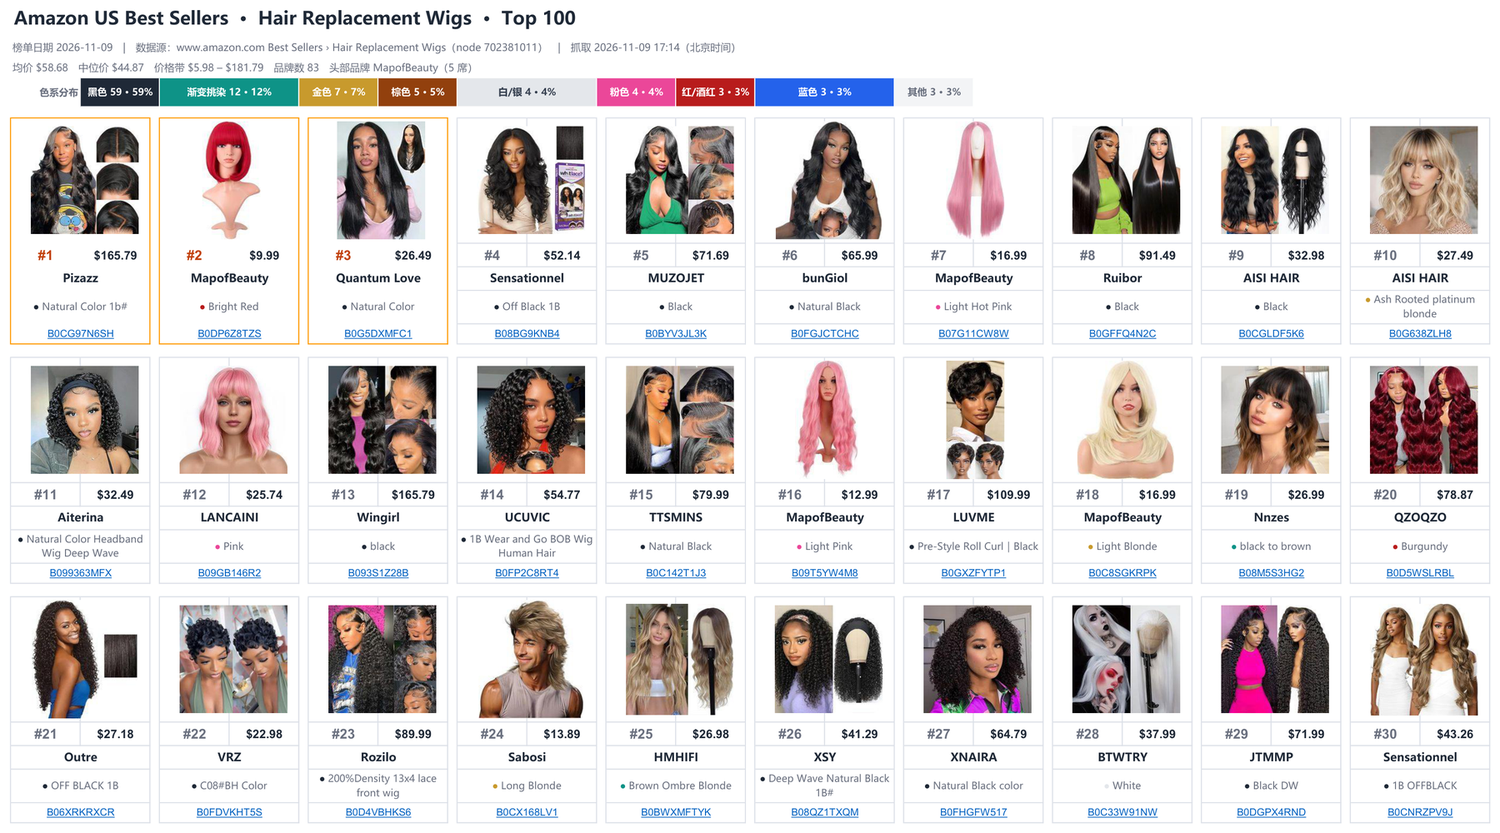
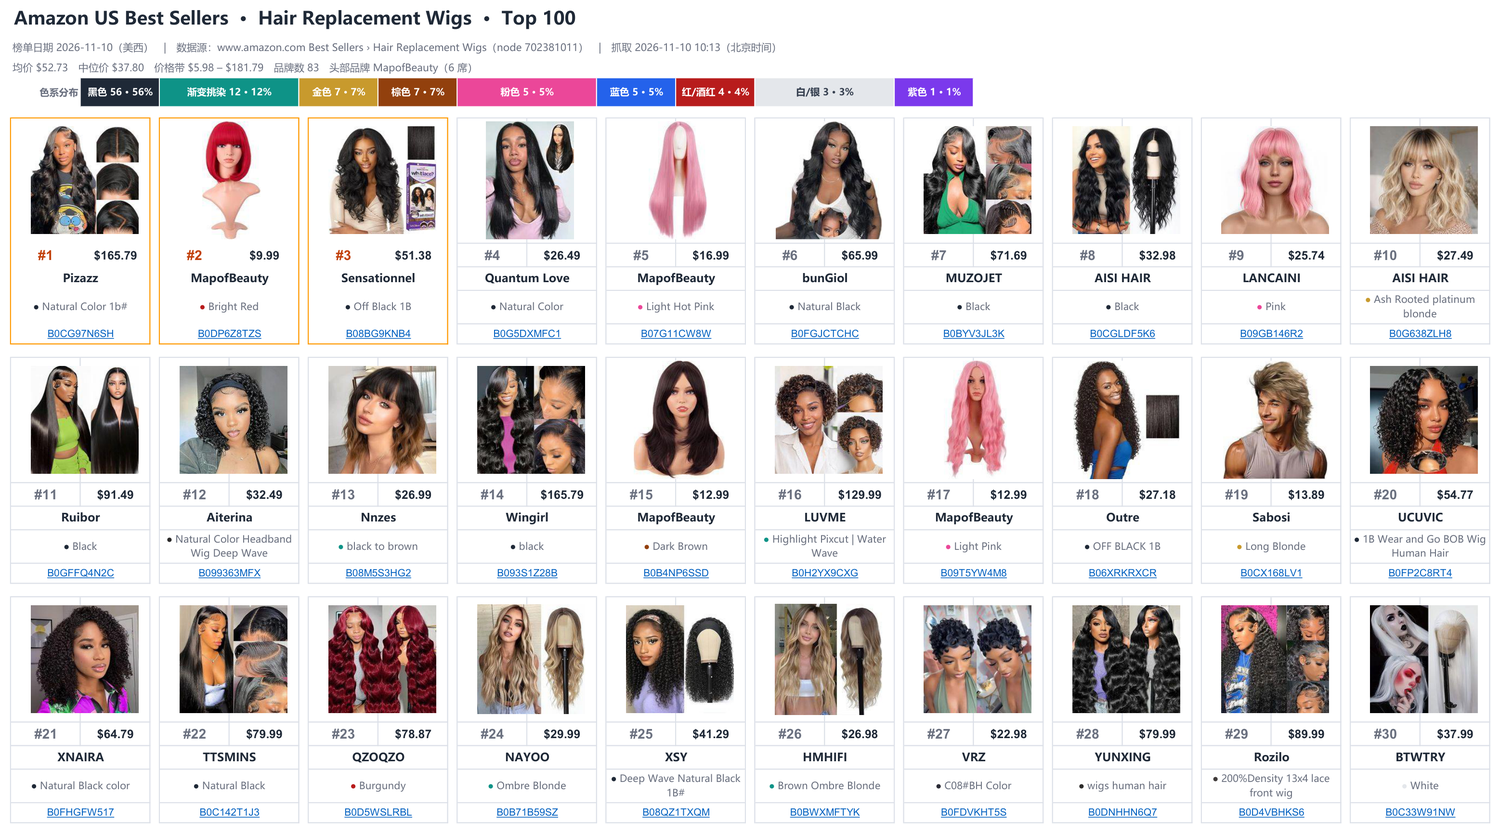
feat: 非色名原文改按商品页 Color Code 定色系与色圆（v1.4.0）
- 新增 parse_color_code()：抓 Style 表 Color Code（#403C3B），curl 与 Playwright 两条通道都支持
- 新增 hex_to_family()：RGB→HSV 归色系（极暗→黑、低饱和按明度分黑/银灰、色相分段归各色系）
- classify_color(raw, title, code)：原文色名 → 标题挑染信号 → Color Code → 标题色名；挑染仍优先
- 新增 dot_color 字段：非色名原文的色圆直接用真实色值，Excel 富文本与 HTML 都不再画灰点
- 词表补 jetblack / jet ?black、off ?black 连写
- 文档：SKILL.md 颜色口径、README 颜色规则与字段表、references 两处同步；截图换成 11-10 数据
- 维护侧：统一 LF（run.py 曾被写成 CRLF）；同步脚本补 pipeline/ → scripts/ 路径改写，references 里 9 处 pipeline/run.py 命令改为可用路径；公开 CHANGELOG 去掉指向仓库外脚本的路径

diff --git a/assets/board.html b/assets/board.html
@@ -156,7 +156,7 @@ function render(){
       <a class="asin" href="https://www.${MARKET}/dp/${x.asin}" target="_blank" rel="noopener">${x.asin}</a>
       <div class="meta color" style="margin-top:4px;font-size:11px"
            title="${x.color_src==='dp'?'商品页 Color 属性原文':'标题中的颜色表述'}">
-        <span class="dot" style="background:${st[0]}"></span>${x.color_raw || "—"}</div>
+        <span class="dot" style="background:${x.dot_color || st[0]}"></span>${x.color_raw || "—"}</div>
     </div>`;
   }).join("");
 

diff --git a/scripts/run.py b/scripts/run.py
@@ -31,7 +31,7 @@ import sys
 import tempfile
 import time
 
-__version__ = "1.3.2"      # 与 SKILL.md 的 version 字段保持一致，由 tools/sync_skill.py 统一维护
+__version__ = "1.4.0"      # 与 SKILL.md 的 version 字段保持一致，由 tools/sync_skill.py 统一维护
 
 UA = ("Mozilla/5.0 (Windows NT 10.0; Win64; x64) AppleWebKit/537.36 "
       "(KHTML, like Gecko) Chrome/126.0.0.0 Safari/537.36")
@@ -388,6 +388,64 @@ def parse_color_html(h):
     return ""
 
 
+COLOR_CODE_RE = re.compile(
+    r'>\s*Color\s*Code\s*<[\s\S]{0,240}?<td[^>]*>\s*(#[0-9A-Fa-f]{6}|#[0-9A-Fa-f]{3})\s*</td>', re.S)
+
+
+def parse_color_code(h):
+    """商品页 Style 表里的 Color Code（形如 #403C3B）。
+
+    Color 字段被卖家填成规格/货号（`200%Density 13x4 lace front wig`、`CR6000`）时，
+    这是唯一能反映「整体颜色观感」的字段：拿它定色调，卡片色圆与色系占比才不会落到「其他」。
+    颜色原文(color_raw)不受影响，仍逐字显示。
+    """
+    if not h:
+        return ""
+    m = COLOR_CODE_RE.search(h)
+    return m.group(1).upper() if m else ""
+
+
+def hex_to_family(code):
+    """色号 → 色系。色号不能精确表达颜色（同一色号在不同光线下观感不同），
+    这里只按 RGB→HSV 归到现有色系桶，用于统计与色圆。"""
+    m = re.fullmatch(r"#?([0-9A-Fa-f]{6}|[0-9A-Fa-f]{3})", (code or "").strip())
+    if not m:
+        return ""
+    s = m.group(1)
+    if len(s) == 3:
+        s = "".join(ch * 2 for ch in s)
+    r, g, b = int(s[0:2], 16), int(s[2:4], 16), int(s[4:6], 16)
+    mx, mn = max(r, g, b), min(r, g, b)
+    v = mx / 255.0
+    sat = 0.0 if mx == 0 else (mx - mn) / mx
+    if v < 0.22:                       # 极暗：假发里这就是 1B/2 号黑，偏蓝偏棕都算黑
+        return "黑色"
+    if sat < 0.15:                     # 低饱和：只有明暗
+        return "黑色" if v < 0.38 else "白色 / 银色"   # 深灰近黑 vs 银灰/雪白
+    d = mx - mn
+    if mx == r:
+        hh = (60 * ((g - b) / d)) % 360
+    elif mx == g:
+        hh = 60 * ((b - r) / d) + 120
+    else:
+        hh = 60 * ((r - g) / d) + 240
+    if hh < 15 or hh >= 345:
+        return "棕色" if v < 0.45 else "红 / 酒红"
+    if hh < 45:
+        if v < 0.45:
+            return "棕色"
+        return "金色" if sat < 0.45 else "橙色"    # 613 沙金/米金 偏淡 → 金色
+    if hh < 70:
+        return "棕色" if v < 0.45 else "金色"
+    if hh < 160:
+        return "绿色"
+    if hh < 250:
+        return "蓝色"
+    if hh < 295:
+        return "紫色"
+    return "粉色" if v >= 0.55 else "紫色"
+
+
 def _parse_dp(h):
     brand = ""
     m = re.search(r'id="bylineInfo"[^>]*>(.*?)</(?:a|span)>', h, re.S)
@@ -405,7 +463,7 @@ def _parse_dp(h):
         m = re.search(r'"priceAmount"\s*:\s*([\d.]+)', h)
         if m:
             price = round(float(m.group(1)), 2)
-    return brand, price, parse_color_html(h)
+    return brand, price, parse_color_html(h), parse_color_code(h)
 
 
 DP_JS = r"""() => {
@@ -430,7 +488,16 @@ DP_JS = r"""() => {
     if (li) color = clean(li.innerText);
   }
   color = color.replace(/^Color\s*[:：]\s*/i, '').trim();
-  return {brand: b, price: q('#corePrice_feature_div') || q('#corePriceDisplay_desktop_feature_div'), color: color};
+  // Style 表里的 Color Code（#403C3B）：Color 被填成规格/货号时靠它定色调
+  let code = '';
+  for (const tr of document.querySelectorAll('table.a-keyvalue tr, table.a-normal.a-spacing-micro tr')) {
+    const th = tr.querySelector('th'); if (!th) continue;
+    if (/^\s*color\s*code\s*$/i.test(clean(th.innerText))) {
+      const td = tr.querySelector('td');
+      if (td) { const mm = clean(td.innerText).match(/#[0-9A-Fa-f]{6}|#[0-9A-Fa-f]{3}/); if (mm) { code = mm[0].toUpperCase(); break; } }
+    }
+  }
+  return {brand: b, price: q('#corePrice_feature_div') || q('#corePriceDisplay_desktop_feature_div'), color: color, code: code};
 }"""
 
 
@@ -456,7 +523,8 @@ async def _patch_by_browser(targets, market="amazon.com"):
                 m = re.search(r"\$([\d,]+\.\d\d)", r.get("price") or "")
                 fixed[asin] = {"brand": r.get("brand") or "",
                                "price": round(float(m.group(1).replace(",", "")), 2) if m else "",
-                               "color": _clean_color(r.get("color") or "")}
+                               "color": _clean_color(r.get("color") or ""),
+                               "code": (r.get("code") or "").strip().upper()}
             except Exception as e:
                 log(f"    ! {asin} 浏览器补抓失败：{e}")
         await br.close()
@@ -525,7 +593,7 @@ def stage_enrich(items, workdir, date_s, market="amazon.com", workers=5):
             except Exception:
                 asin, h, ok = it["asin"], "", False
             if ok:
-                it["brand"], it["price_usd"], it["color_raw"] = _parse_dp(h)
+                it["brand"], it["price_usd"], it["color_raw"], it["color_code"] = _parse_dp(h)
                 it["color_dp"] = it["color_raw"]          # 商品页 Color 原文（源头，供重算时判源）
                 it["price_src"] = "dp" if it["price_usd"] else ""
                 it["color_src"] = "dp" if it.get("color_raw") else ""
@@ -548,6 +616,8 @@ def stage_enrich(items, workdir, date_s, market="amazon.com", workers=5):
                 if not it.get("color_raw") and r.get("color"):
                     it["color_raw"], it["color_src"] = r["color"], "dp"
                     it["color_dp"] = r["color"]
+                if not it.get("color_code") and r.get("code"):
+                    it["color_code"] = r["code"]
 
     # 兜底：商品页因「无法配送至当前地区」不显示价格 → 用榜单卡片价
     n = 0
@@ -622,7 +692,7 @@ MULTI_RE = (r"ombre|ombré|balayage|highlight|two[ -]?tone|mixed colou?r|multi[ 
             r"|\bto\s+(?:black|blonde|brown|purple|blue|pink|red|silver|grey|gray|white|orange|green)\b")
 FAMILIES = [
     ("白色 / 银色", r"\bwhite\b|snow white|silver|\bgrey\b|\bgray\b|icy"),
-    ("黑色",        r"\bblack\b|\b1b\b|off ?black|jet black|natural black|natural colou?r"),
+    ("黑色",        r"\bblack\b|\b1b\b|off ?black|jet ?black|natural black|natural colou?r"),
     ("金色",        r"\bblonde\b|\bblond\b|\bgolden\b|\b613\b|platinum|honey|sandy"),
     ("棕色",        r"\bbrown\b|chocolate|chestnut|caramel|champagne"),
     ("红 / 酒红",   r"\bred\b|auburn|ginger|copper|burgundy|wine red|cherry"),
@@ -709,25 +779,39 @@ def is_color_like(v):
     # 卖家常用整串色名：Natural / Original / Skunk Stripe（黑金挑染）。整串匹配，不误命中规格文案。
     if re.fullmatch(r"natural|original|skunk\s+stripe", low):
         return True
+    # 1 Jetblack（Sensationnel 官方色号，Jet Black 连写）：词表只有带空格的 jet black
+    if re.search(r"\bjet\s?black\b", low):
+        return True
     return False
 
 
-def classify_color(raw, title=""):
-    """把原始颜色描述归入色系，仅用于统计口径——表格里显示的是 raw 原文"""
-    for src in (raw, title):
-        if not src:
-            continue
-        t = html.unescape(src).lower()
-        if re.search(MULTI_RE, t):
+def classify_color(raw, title="", code=""):
+    """把原始颜色描述归入色系，仅用于统计口径——表格里显示的是 raw 原文
+
+    2026-11-10 起：Color 被卖家填成规格/货号时，不再落到「其他 / 未标注」，
+    而是依次用 ①标题里的挑染/多色信号 ②商品页 Color Code ③标题色名 定色调。
+    假发任何一条都有真实颜色，缺的只是页面没写色名，不能记成「其他」。
+    """
+    src = html.unescape(raw or "").lower()
+    if src:
+        if re.search(MULTI_RE, src):
             return "渐变 / 挑染"
-        hits = []
-        for name, pat in FAMILIES:
-            m = re.search(pat, t)
-            if m:
-                hits.append((m.start(), name))
+        hits = [(m.start(), name) for name, pat in FAMILIES if (m := re.search(pat, src))]
         if hits:
-            hits.sort()
-            return hits[0][1]
+            return sorted(hits)[0][1]
+    # ---- raw 不是色名 ----
+    t = html.unescape(title or "").lower()
+    # 挑染/渐变的信号只在标题里有（单一色号表达不了「一顶里两种色」）
+    if t and re.search(MULTI_RE, t):
+        return "渐变 / 挑染"
+    if code:
+        fam = hex_to_family(code)
+        if fam:
+            return fam
+    if t:
+        hits = [(m.start(), name) for name, pat in FAMILIES if (m := re.search(pat, t))]
+        if hits:
+            return sorted(hits)[0][1]
     return "其他 / 未标注"
 
 
@@ -752,12 +836,21 @@ def stage_color(items):
         it["color_raw"] = raw
         # 标题里能取到的颜色短语，仅作对照字段留存，不参与看板显示
         it["color_title"] = title_color_phrase(it.get("title")) or ""
-        it["color"] = classify_color(raw, it.get("title"))
+        it["color"] = classify_color(raw, it.get("title"), it.get("color_code") or "")
+        # 色圆：Color 原文不是色名时，用商品页 Color Code 的真实色值，
+        # 避免一顶黑发因卖家把 Color 填成规格而显示成「其他」的灰点
+        cc = (it.get("color_code") or "").strip()
+        is_multi = bool(re.search(MULTI_RE, html.unescape(raw or "").lower())
+                        or re.search(MULTI_RE, html.unescape(it.get("title") or "").lower()))
+        use_code = cc and not is_color_like(raw) and bool(hex_to_family(cc)) and not is_multi
+        it["dot_color"] = cc if use_code else ""
     n_dp = sum(1 for x in items if x.get("color_src") == "dp")
     n_ti = sum(1 for x in items if x.get("color_src") == "title")
     n_no = sum(1 for x in items if x.get("color_src") == "none")
     n_name = sum(1 for x in items if x.get("color_src") == "dp" and is_color_like(x.get("color_raw")))
+    n_code = sum(1 for x in items if x.get("dot_color"))
     log(f"  商品页原文 {n_dp} 条（其中本身是色名 {n_name} 条）/ 标题兜底 {n_ti} 条 / 无颜色 {n_no} 条")
+    log(f"  非色名原文改用 Color Code 定色调 {n_code} 条")
     cnt = collections.Counter(it["color"] for it in items)
     log("  色系：" + "  ".join(f"{k}{v}" for k, v in cnt.most_common()))
     return items
@@ -987,6 +1080,10 @@ def _fill_sheet(ws, items, date_s, name, node_id, crawled_at, thumb_dir):
             # 颜色：显示商品页 Color 属性的原文（如 "Light Hot Pink" / "Off Black 1B"）
             raw = (d.get("color_raw") or "").strip() or "—"
             fill_c, _ = STYLE_COLOR.get(d.get("color"), STYLE_COLOR["其他 / 未标注"])
+            # 非色名原文：圆点用商品页 Color Code 的真实色值（见 stage_color.dot_color）
+            _dot = (d.get("dot_color") or "").strip()
+            if re.fullmatch(r"#[0-9A-Fa-f]{6}", _dot):
+                fill_c = "FF" + _dot[1:].upper()
             try:
                 from openpyxl.cell.rich_text import CellRichText, TextBlock
                 from openpyxl.cell.text import InlineFont
@@ -1035,7 +1132,8 @@ def _fill_sheet(ws, items, date_s, name, node_id, crawled_at, thumb_dir):
     notes = ["说明｜每张卡片 = 一个商品：" + " + ".join(FIELD_CN[f] for f in fields) + "。"]
     if "color" in fields:
         notes.append("说明｜颜色取亚马逊商品页 Color 属性的原文（如 Light Hot Pink、Off Black 1B），未经改写；"
-                     "个别商品无该属性时取标题中的颜色表述；顶部色条是同一批原文归入色系后的统计。")
+                     "个别商品该属性被填成规格/货号时，显示仍用原文，色圆与色系统计则取商品页 Color Code 的真实色调"
+                     "（其次参考标题）；顶部色条是同一批原文归入色系后的统计。")
     if "rank" in fields or "price" in fields:
         notes.append(f"说明｜排名为类目{rank_en}的自然位次，非搜索排名；价格取商品页实时售价，"
                      f"个别商品因配送区域限制不显示价格时取榜单卡片价。")

diff --git a/scripts/enrich_color.py b/scripts/enrich_color.py
@@ -49,7 +49,7 @@ async def _worker(queue, results, browser, market, pid):
                     else:
                         await page.wait_for_timeout(2500)
                     continue
-                results[asin] = {"color": color, "ok": True}
+                results[asin] = {"color": color, "code": (r.get("code") or "").strip().upper(), "ok": True}
                 break
             except Exception as e:
                 if attempt == 2:
@@ -158,6 +158,9 @@ def main():
             if c.get("color") and R.is_color_like(c["color"]):
                 it["color_raw"], it["color_src"] = c["color"], "dp"
                 it["color_dp"] = c["color"]
+            # Color Code：卖家把 Color 填成规格/货号时，用它定色圆与色系
+            if c.get("code"):
+                it["color_code"] = c["code"]
             # 抓不到的交给 stage_color 按标题兜底
         items = R.stage_color(items)
         json.dump(items, open(os.path.join(data_dir, d, "items.json"), "w", encoding="utf-8"),

diff --git a/scripts/render_html.py b/scripts/render_html.py
@@ -52,7 +52,7 @@ def _data_url(path):
 def _prep_item(it, embed):
     """统一成精简结构：图片走图床并带多级回退链，或转 base64"""
     out = {k: it.get(k) for k in ("rank", "asin", "brand", "price_usd",
-                                 "color", "color_raw", "color_src")}
+                                 "color", "color_raw", "color_src", "dot_color")}
     if embed:
         out["img"] = _data_url(it.get("local_img")) or it.get("img") or ""
         out["chain"] = []

diff --git a/CHANGELOG.md b/CHANGELOG.md
@@ -33,3 +33,14 @@
 
 - 文档措辞修正，无功能变更：公开文档统一去掉只有维护者看得懂的表述（本机 / 定时任务 / 项目内等）；`ExportAsFixedFormat` 的说明改为「按工作表导 PDF 可用、整本工作簿导易崩」；SKILL.md 的版本小节重写为对外可读的「版本与命名」
 - README 事实性修正：版本号由 1.3.0 更新到当前版本（并改为随同步脚本自动更新）；商品图目录由 `output/.../images/` 更正为 `data/<日期>/images/`；「只留图/排名/价格」的卡片行数说明纠正（实际是「图 + 排名·价格」两行）；补上文件名前缀随榜单类型变化的说明
+
+## 1.4.0 — 2026-11-10
+
+- **口径修正：非色名原文不再记成「其他 / 未标注」**。卖家把 Color 填成规格/货号（`200%Density 13x4 Lace Front Wig`、`CR6000`、`C08#BH Color`、`wigs human hair`）时，卡片文字仍逐字显示原文；但色系占比与卡片色圆改按真实产品颜色判定——假发每一条都有颜色，缺的只是页面没写色名
+- 新增 `parse_color_code()`：抓商品页 Style 表 `Color Code`（如 `#403C3B`），curl 与 Playwright 两条抓取路径都支持，落 `items.json` 的 `color_code`
+- 新增 `hex_to_family()`：RGB→HSV 归色系（极暗→黑；低饱和按明度分黑/银灰；色相分段归金/棕/红/粉/紫/蓝/绿/橙，613 类沙金归金）
+- `classify_color()` 入参改为 `(raw, title, code)`，顺序：原文色名 → 标题挑染信号 → Color Code 色调 → 标题色名；挑染（ombre/highlight/two-tone）仍优先，因为单一色号表达不了双色
+- 新增 `dot_color` 字段：非色名原文的圆点直接用 Color Code 真实色值（Excel 富文本 ARGB、HTML `background`），不再画灰点；HTML 模板由 `st[0]` 改为 `x.dot_color || st[0]`
+- 词表补 `jetblack`（Sensationnel 官方色号 `1 Jetblack`）/ `jet ?black`，此前被误判为非颜色
+- 配套一次性回填脚本（不进技能包，只用于给既有 `data/` 补色号）：只给缺 `color_code` 的非色名条目补色号并重算，带 `color_raw` 不变硬校验（变了就中止写入）
+- 实测 11-01～11-10：59 条非色名条目全部归入真实色系，「其他 / 未标注」由每日 1～4 条降为 **0 条**，`color_raw` 零改动

diff --git a/README.md b/README.md
@@ -49,7 +49,7 @@ data/<YYYY-MM-DD>/images/                         商品图（打包进表格，
 | 排名 | 榜单 `.zg-bdg-text` | 1–100 自然位次，前 3 名橙色描边 |
 | 价格 | 商品页 | 站点当地币种实价，带榜单卡片价兜底 |
 | 品牌 | 商品页 `#bylineInfo` | 去掉 `Visit the` / `Brand:` / `Store` 前后缀 |
-| 颜色 | 商品页 Color 字段 | **完整原文，一字不改**（见下文） |
+| 颜色 | 商品页 Color 字段 | **完整原文，一字不改**（色系统计另按 Color Code 判定，见下文） |
 | ASIN | 榜单链接 | 超链接，点击直达商品页 |
 
 ## 安装
@@ -142,6 +142,9 @@ Silver+Leopard+Black (Pack of 3)  Honey Blonde Highlight｜Side Part｜7x5 Lace 
 - **不改大小写**（`1b` 就是 `1b`）、**不截断**、**不删尺寸前缀**
 - 卖家拼写错误照留：`Nutural Black`、`Sliver to Purple`、`Gloden Blonde`
 - 验收标准：页面有该字段时，`color_raw` 与 `color_dp` 逐条 **100% 相同**
+- 卖家把规格/货号填进 Color（`200%Density 13x4 Lace Front Wig`、`CR6000`）时，**卡片文字照旧是原文**，
+  但色系占比与卡片色圆改按商品页 Style 表的 **`Color Code`**（如 `#403C3B`）判定，其次看标题里的挑染/色名——
+  假发每条都有真实颜色，不该因为卖家没写色名就被统计成「其他 / 未标注」
 - 顶部色条仍按**色系**统计（黑/金/渐变…），标签写「色系分布」，与卡片原文并存
 
 这条规则被改坏过三次（截断、改大小写、源端 `v[:40]` 截断），`references/layout-spec.md` §4 记了完整教训，改之前请先读。
@@ -179,7 +182,7 @@ CHANGELOG.md              更新记录
 
 ## 版本
 
-当前 **v1.3.2**，详见 [CHANGELOG.md](CHANGELOG.md)。版本号同时写在 `SKILL.md` 的 `version:`
+当前 **v1.4.0**，详见 [CHANGELOG.md](CHANGELOG.md)。版本号同时写在 `SKILL.md` 的 `version:`
 与 `scripts/run.py` 的 `__version__`，两处必须一致；运行 `python scripts/run.py --version` 可查。
 
 ## License

diff --git a/references/layout-spec.md b/references/layout-spec.md
@@ -106,9 +106,14 @@ Silver+Leopard+Black (Pack of 3)    200%Density 13x4 Lace Front Wig
 - `color_src`：`dp`（页面有该字段）/ `title`（标题兜底）/ `none`（都没有）
 - **验收标准：页面有 Color 字段的条目，`color_raw` 必须与 `color_dp` 逐条 100% 相同**
 
-**色系归组**（`classify_color`，只用于顶部色条，不影响卡片显示）
+**色系归组**（`classify_color(color_raw, title, color_code)`，只用于顶部色条与卡片色圆，不影响卡片文字）
 先判「多色」归 `渐变 / 挑染`（`ombre / balayage / highlight / two-tone / mixed color / colorful / rainbow / black and white / X to Y`），
-再按出现位置最靠前归入：白/银 → 黑（含 `1b`、`natural color`）→ 金 → 棕 → 红/酒红 → 粉 → 紫 → 蓝 → 橙 → 绿，都不中则 `其他 / 未标注`。
+再按出现位置最靠前归入：白/银 → 黑（含 `1b`、`natural color`、`jetblack`）→ 金 → 棕 → 红/酒红 → 粉 → 紫 → 蓝 → 橙 → 绿。
+
+原文里没有颜色词时（`CR6000`、`200%Density 13x4 Lace Front Wig` 这类卖家把规格填进 Color 的条目），
+v1.4.0 起按 ①标题里的挑染/多色信号 ②商品页 Style 表 `Color Code`（RGB→HSV 归色系）③标题色名 依次定色调，
+并写 `dot_color`（原始色号如 `#403C3B`）供卡片色圆直接取用。假发每条都有真实颜色，不应记成 `其他 / 未标注`；
+常态应为 0 条，若出现说明该商品连 Color Code 都没有，需按商品页人工校准。
 占比取整后若合计 ≠ 100，差额补给数量最多的那一类。
 
 **为什么这条规则写得这么死**：它被改坏过两次。
